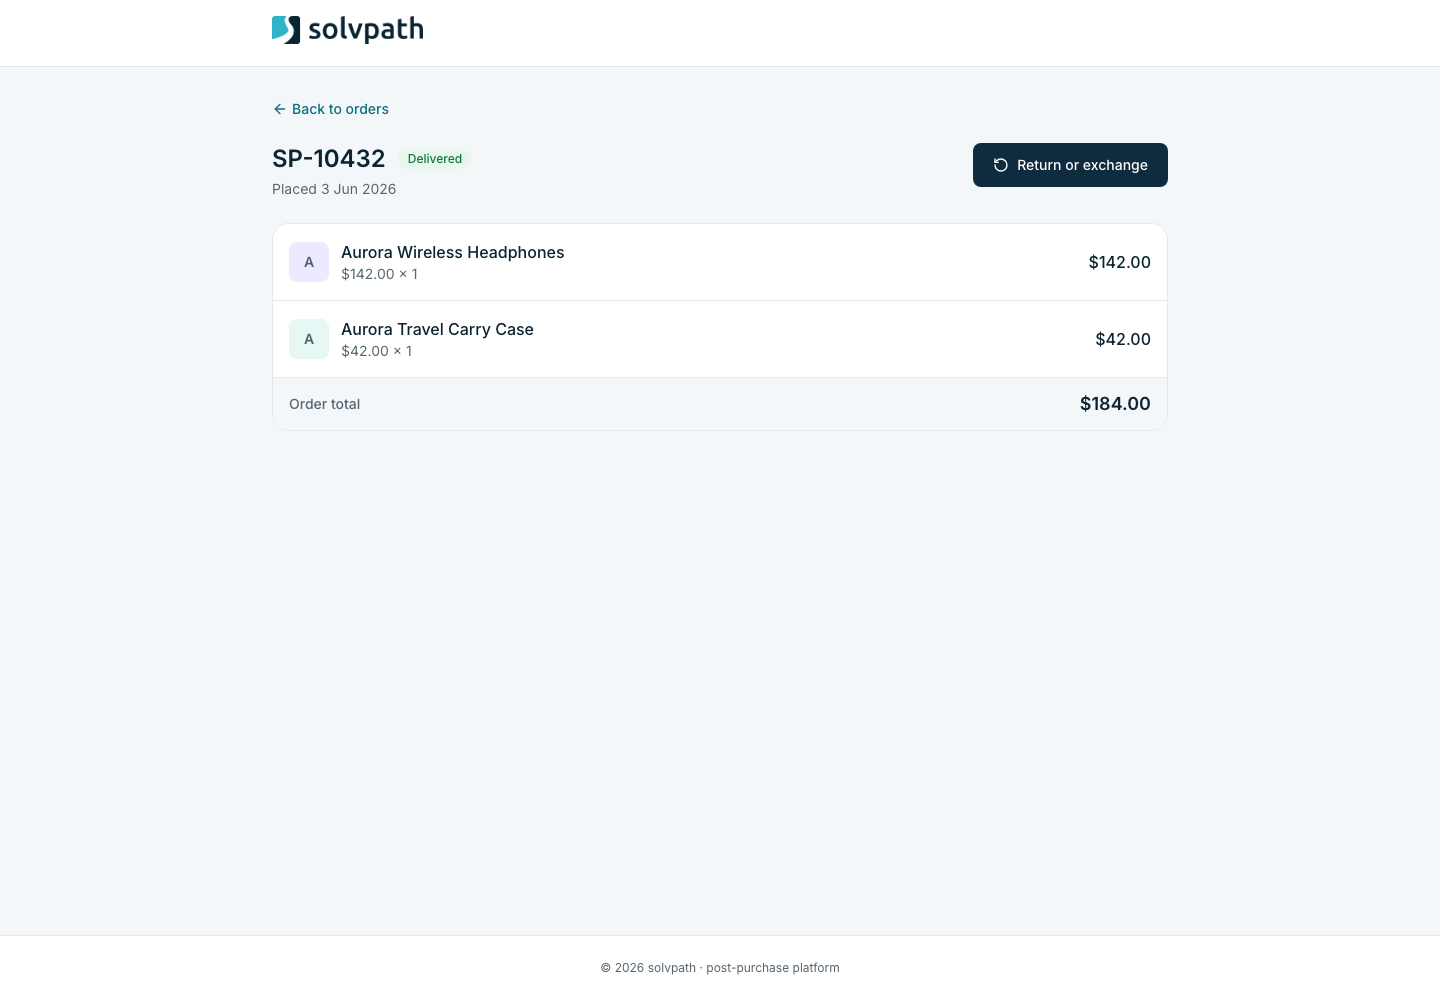
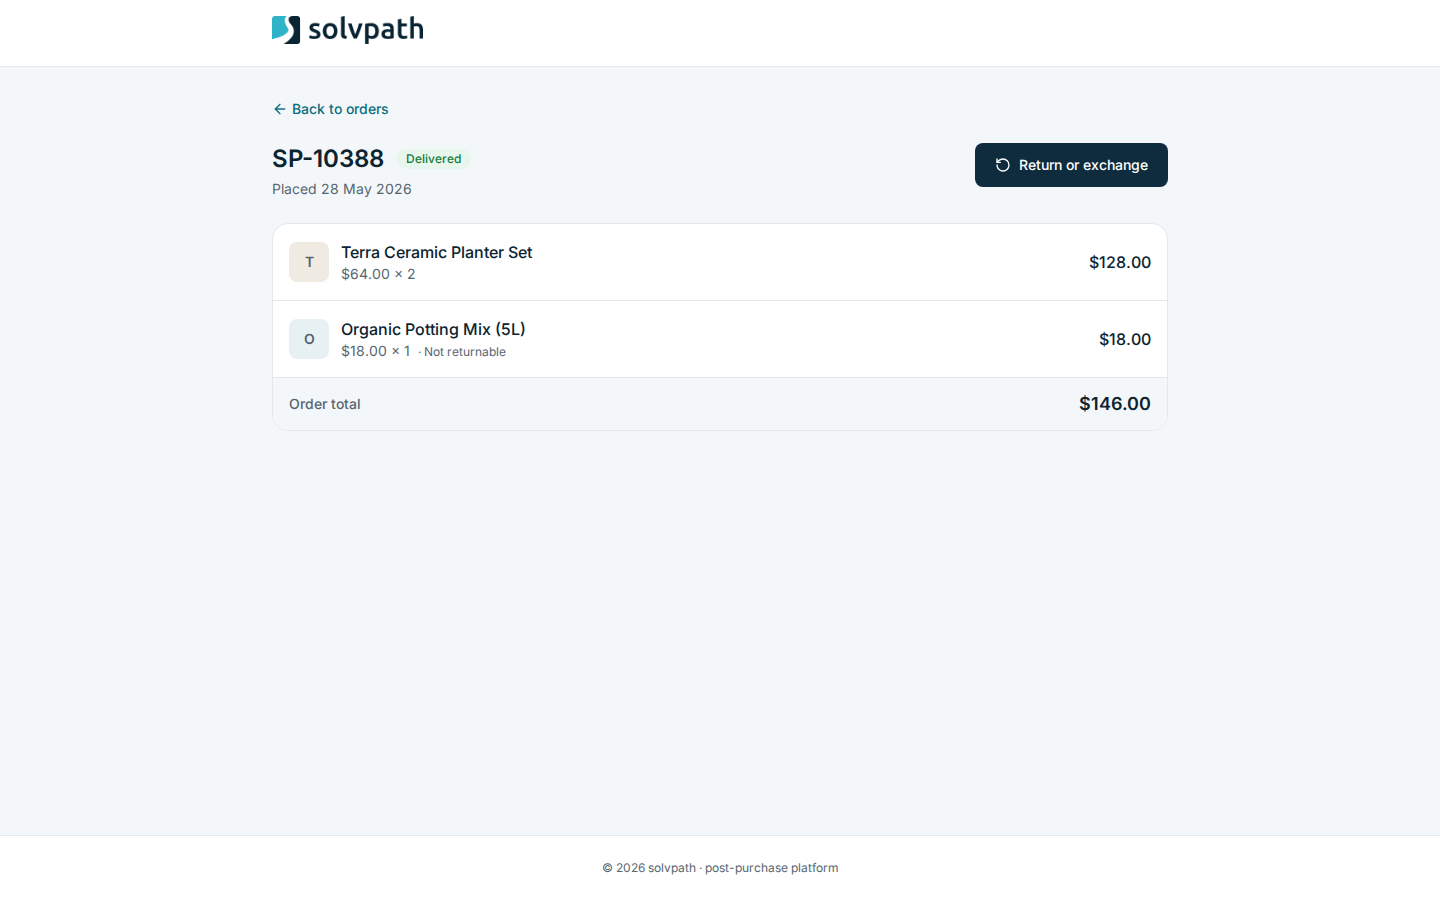
Rewrite the README around the fixed flow and refresh screenshots
Documents the Docker path and the pinned Node version, the decisions
behind step state, retries and pagination, and what the 80 tests cover.
Drops the old note about a Node 20 run and the four lint warnings.
Screenshots were retaken with Playwright from the production bundle
using the mock API's demo orders, adding the confirmation screen and
the item step at phone width.

diff --git a/README.md b/README.md
@@ -1,108 +1,130 @@
 # Solvpath post-purchase experience
 
-A React and TypeScript take-home project that models the customer journey after checkout: find an order, inspect its details, and complete a guided return or exchange. The application uses an in-memory service layer so the UI states and business rules can be reviewed without a backend.
+A React and TypeScript take-home project that models the customer journey after checkout: find an order, inspect its details, and complete a guided return or exchange. The app talks to an in-memory mock API that is deliberately slow and flaky, so loading, empty and failure states are part of the product rather than edge cases.
 
 ![Orders dashboard with search, status filtering and order cards](docs/screenshots/orders-dashboard.png)
 
 ## Product walkthrough
 
-The orders dashboard supports status filtering, text search and pagination. Delivered orders lead into a four-step return flow:
+The orders dashboard supports status filtering, debounced text search (order number or product name) and pagination. Delivered orders lead into a four-step return flow:
 
-1. Select eligible items and quantities.
-2. Choose a return reason and add optional context.
-3. Select a refund, exchange or store-credit resolution.
-4. Review the request before submitting it.
+1. **Items**: choose which items to send back and how many of each. Quantities stop at what was ordered, and non-returnable lines are shown but cannot be selected.
+2. **Reason**: pick a reason and optionally add a comment (up to 500 characters).
+3. **Resolution**: refund to the original payment method, exchange, or store credit with a 10% bonus. Each option shows the exact amount.
+4. **Review**: check everything, then submit.
 
-Quantities cannot exceed the original order, non-returnable items remain disabled, and store credit includes the configured 10% bonus. Reads may retry transient failures; return submissions require an explicit retry to avoid silently duplicating a write.
+Next stays disabled until the current step is complete and says what is missing. Back keeps every earlier answer.
 
-| Order details | Guided return flow |
+| Order details | Resolution step |
 | --- | --- |
-| ![Delivered order details and return action](docs/screenshots/order-detail.png) | ![Return flow item-selection step](docs/screenshots/return-flow.png) |
+| ![Delivered order with line items and the return action](docs/screenshots/order-detail.png) | ![Resolution step with store credit selected and its bonus](docs/screenshots/return-flow.png) |
+
+| Submitted return | Item step on a phone |
+| --- | --- |
+| ![Confirmation with the return ID](docs/screenshots/return-success.png) | ![Item step at 390px wide](docs/screenshots/mobile-return-items.png) |
 
 ```mermaid
 flowchart LR
     A[Orders dashboard] --> B[Order details]
-    B --> C[Select items]
-    C --> D[Choose reason]
-    D --> E[Choose resolution]
-    E --> F[Review request]
-    F --> G[Success or explicit retry]
+    B -->|delivered only| C[Items]
+    C --> D[Reason]
+    D --> E[Resolution]
+    E --> F[Review]
+    F -->|submit| G{Mock API}
+    G -->|receipt| H[Return submitted]
+    G -->|error| I[Error with explicit Try again]
+    I --> G
 ```
+
+## Run it
+
+### With Docker (no local Node needed)
+
+```bash
+docker build -t solvpath-returns .
+docker run --rm -p 4173:4173 solvpath-returns
+```
+
+The image build installs dependencies with `npm ci`, then runs the type check, lint, the test suite and the production build. The build fails if any of them fails. The container then serves the bundle at `http://localhost:4173`.
+
+### With Node.js
+
+Node 22 is pinned in `.nvmrc` (the `engines` field also accepts Node 24.15+ and 26).
+
+```bash
+nvm use        # or any Node 22 install
+npm ci
+npm run dev    # http://localhost:5173
+```
+
+| Command | What it does |
+| --- | --- |
+| `npm run dev` | Vite dev server with hot reload |
+| `npm run typecheck` | `tsc -b` across app and config |
+| `npm run lint` | oxlint (React, TypeScript and oxc rules) |
+| `npm test` | Vitest suite in jsdom |
+| `npm run build` | Type check and production bundle in `dist/` |
+| `npm run preview` | Serve the production bundle |
+
+No environment variables are needed; the mock API runs in the browser.
 
 ## Architecture
 
 ```mermaid
 flowchart TD
-    Routes[React Router] --> Features[Orders and returns features]
-    Features --> Hooks[Query and draft-state hooks]
-    Hooks --> Services[Typed service layer]
-    Services --> MockAPI[In-memory mock API]
-    Features --> Components[Reusable UI components]
-    Features --> Money[Integer-cent money helpers]
+    Routes[React Router routes] --> Layout[App shell]
+    Layout --> Orders[features/orders]
+    Layout --> Returns[features/returns, lazy-loaded]
+    Orders --> Hooks[hooks: useOrders, useOrder, useSubmitReturn, useReturnDraft]
+    Returns --> Hooks
+    Hooks --> Services[services: query keys + API surface]
+    Services --> MockAPI[services/mockApi.ts, the fixed contract]
+    Orders --> Components[components: Button, ErrorState, Stepper...]
+    Returns --> Components
+    Returns --> Money[lib/money.ts, integer cents]
 ```
 
-- `src/features/orders` contains the dashboard, filters, cards and order details.
-- `src/features/returns` contains the guided flow and its step components.
-- `src/hooks` owns server-state queries and the return-draft reducer.
-- `src/services` provides the network boundary and mock implementation.
-- `src/lib/money.ts` keeps price calculations in integer cents.
-- `src/components` contains shared loading, error, form and status primitives.
+- `src/features/orders`: dashboard, filters, cards, pagination and order details.
+- `src/features/returns`: the flow page and one component per step.
+- `src/hooks`: TanStack Query hooks for server state and a reducer for the return draft.
+- `src/services`: the only module that touches the mock API. Swapping in a real HTTP client would change this folder alone.
+- `src/lib`: money maths, formatting, error messages and the shared `QueryClient`.
+- `src/components`: shared loading, empty, error, form and status primitives.
 
-TanStack Query manages asynchronous reads and writes. React Router keeps order details addressable, while the return flow is loaded lazily. Loading, empty and failure states are represented explicitly instead of being folded into the happy path.
+## Decisions
 
-## Run locally
+**Money stays in integer cents.** Totals, returned value and resolution amounts never use floating-point dollars. Store credit applies its bonus once to the returned value and rounds half up to a whole cent, so $83.00 becomes $91.30.
 
-Prerequisites: a current Node.js release and npm.
+**Reads retry; writes do not.** Queries retry transient failures up to three times with exponential backoff, but never retry an abort, a 404 or a 422. The return submission has retries turned off: if the response is lost, an automatic retry could create a second return. The shopper sees the error and chooses whether to try again.
 
-```bash
-npm install
-npm run dev
-```
+**The step is explicit state.** The flow keeps a step index next to the draft rather than deriving the step from which fields are filled, so choosing one item does not skip ahead and going back loses nothing. After Next or Back, focus moves to the new step's heading.
 
-Open `http://localhost:5173`.
+**Pagination belongs to a filter combination.** The page number is stored with the filters it was chosen for. When a filter changes, the page resets to 1 during render, without an effect, so the app never requests page 3 of a new search.
 
-Useful project commands:
+**Navigation is links, actions are buttons.** "Return or exchange" and "Back to orders" are real links styled as buttons, never an anchor inside a `<button>`.
 
-```bash
-npm run typecheck
-npm run lint
-npm run test
-npm run build
-```
+**Accessibility is built into the components.** Inputs have labels, errors use `role="alert"`, the stepper marks the current step with `aria-current`, focus rings are visible, a skip link leads to the main content, and reduced-motion preferences turn off animation.
 
-The repository was verified locally with Node.js 20.20.2 and npm 10.8.2. Type checking and the production build passed, all 22 Vitest cases passed, and lint completed with four non-blocking Fast Refresh warnings. npm also reports that `@testing-library/jest-dom@7` targets Node.js 22 or newer, so Node.js 22 is the recommended runtime for a clean install.
+**Brand.** Colours and type come from the solvpath brand tokens (`src/styles/brand-tokens.css`), mapped into the Tailwind theme so utilities such as `bg-brand` and `text-accent-deep` stay on palette.
 
-## Correctness choices
+## Tests
 
-### Money stays in integer cents
+80 Vitest and Testing Library tests run in jsdom:
 
-Order totals, returned value and resolution amounts avoid floating-point currency storage. Store credit applies its bonus once and rounds the final cent value. `src/lib/money.test.ts` covers formatting, line totals, selections, bonuses and rounding edges.
+- **Return flow** (`ReturnFlowPage.test.tsx`): renders the real route table with the service module mocked. It covers step gating, Back keeping answers, quantity caps, store-credit amounts, mapping the draft to the request, a failed submit followed by an explicit retry, and the not-delivered and load-error guards.
+- **Orders** (`OrdersPage.test.tsx`, `OrderDetailPage.test.tsx`): card details, the status filter resetting the page, the search debounce, pagination, the empty state with clear filters, and error recovery.
+- **Service layer**: the mock API contract with latency and random failures switched off (paging, filtering, search, 404/422/503, aborts), the query-key hierarchy, the retry policy, and the hooks calling the service with abort signals.
+- **Units**: money maths, date and error formatting, the draft reducer, and shared components.
 
-### Writes do not retry silently
+There is no browser end-to-end suite; a Playwright run against `npm run preview` would be the next step.
 
-Read queries can retry transient failures. The return mutation does not automatically replay because an uncertain response could otherwise create a duplicate request. The customer sees an error and chooses whether to retry.
+## Limits
 
-### Validation happens by step
+- Data and submissions are mocked in memory; nothing persists across reloads.
+- Authentication is out of scope.
+- Filters and search live in component state, not the URL.
+- A return draft is lost if the page is reloaded mid-flow.
 
-Each screen blocks forward navigation until its own requirements are met. The final review therefore summarizes a structurally complete draft instead of presenting all validation errors at submission time.
+## License
 
-### Accessibility is part of the component boundary
-
-Form controls have labels, error content uses alert semantics, progress identifies the current step, focus styles remain visible, and reduced-motion preferences disable animation.
-
-## Test scope
-
-The repository contains focused Vitest coverage for the money helpers, including store-credit rounding and a complete-return calculation. That coverage protects the most calculation-sensitive pure functions; it is not comprehensive UI or end-to-end coverage.
-
-Useful next tests would cover step validation, failed submissions, navigation between draft stages and the order filtering experience. A Playwright flow would add confidence across the full customer journey.
-
-## Project boundaries
-
-- Data and submission behavior are mocked in memory; there is no production API or persistence layer.
-- Authentication is intentionally outside the supplied take-home scope.
-- Filters are local UI state rather than URL-synchronized state.
-- The repository demonstrates a focused post-purchase slice, not a complete commerce platform.
-
-## Technology
-
-React, TypeScript, Vite, React Router, TanStack Query, Tailwind CSS, Vitest and Testing Library.
+MIT, see [LICENSE](LICENSE).
